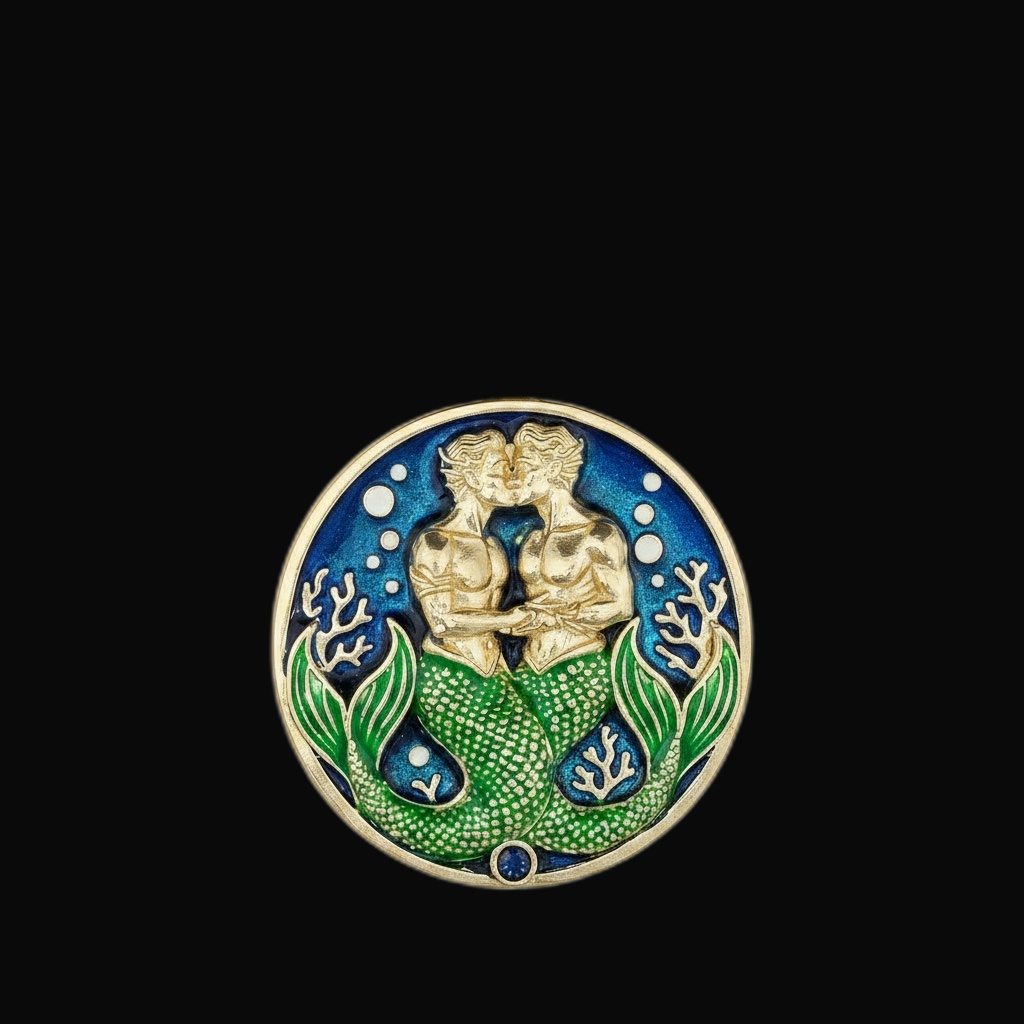
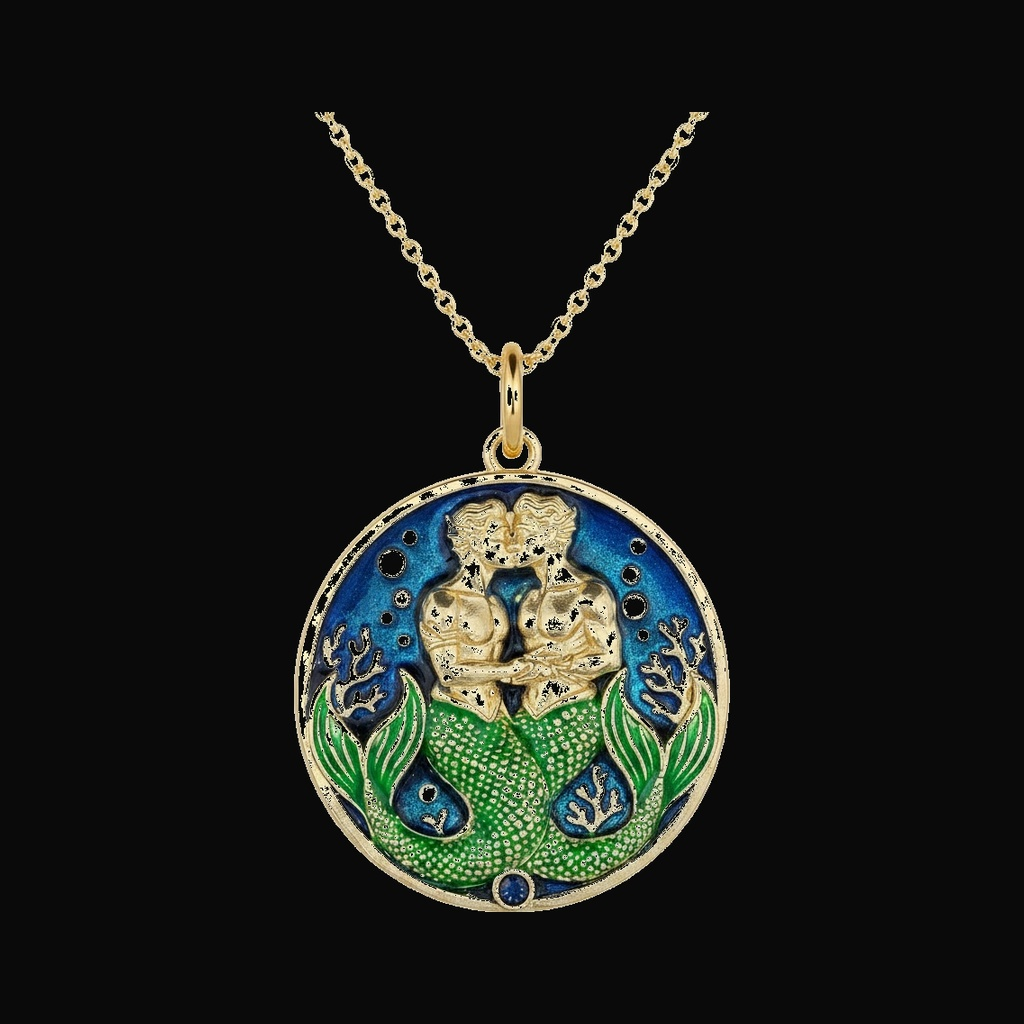
UI Fix: Perfectly scale and frame all product images without cropping and ensure inner negative spaces are black

diff --git a/production/index.html b/production/index.html
@@ -683,7 +683,7 @@ fbq('track', 'PageView');
 
       height: 600px;
 
-      object-fit: cover;
+      object-fit: contain;
 
       background: var(--ink-soft);
 
@@ -707,7 +707,7 @@ fbq('track', 'PageView');
 
       height: 80px;
 
-      object-fit: cover;
+      object-fit: contain;
 
       background: var(--ink-soft);
 
